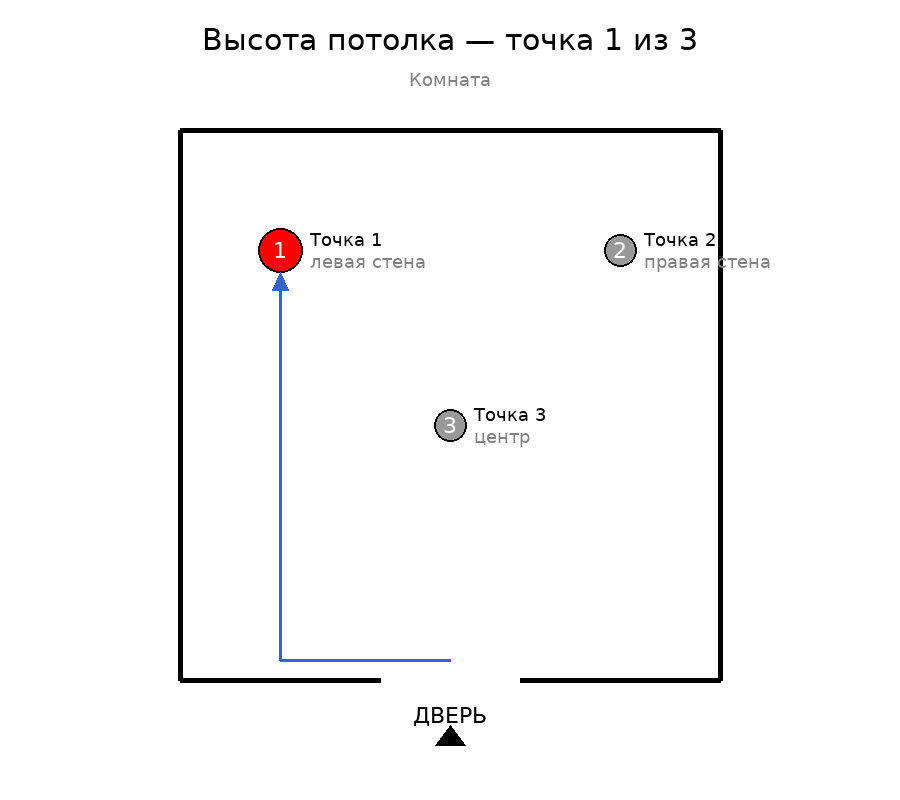
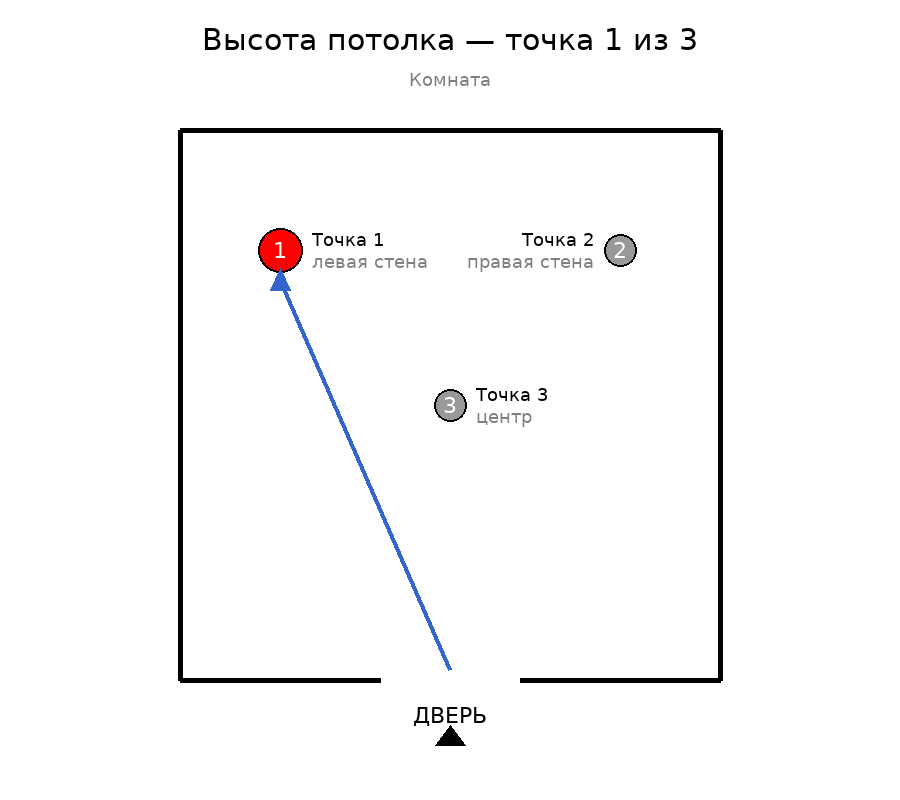
fix: схема — точка 2 подпись слева, стрелка прямая, центр ровно

diff --git a/scripts/draw_room_scheme.py b/scripts/draw_room_scheme.py
@@ -61,12 +61,12 @@ def draw_height_scheme(step=1, room_name="Комната"):
     points = {
         1: (x1 + 100, y1 + 120),           # у левой стены
         2: (x2 - 100, y1 + 120),           # у правой стены
-        3: ((x1 + x2)//2, (y1 + y2)//2 + 20),  # центр
+        3: ((x1 + x2)//2, (y1 + y2)//2),   # ровно центр
     }
     labels = {
-        1: ("Точка 1", "левая стена"),
-        2: ("Точка 2", "правая стена"),
-        3: ("Точка 3", "центр"),
+        1: ("Точка 1", "левая стена", "right"),
+        2: ("Точка 2", "правая стена", "left"),
+        3: ("Точка 3", "центр", "right"),
     }
 
     for num, (px, py) in points.items():
@@ -75,17 +75,26 @@ def draw_height_scheme(step=1, room_name="Комната"):
         d.ellipse([(px-r, py-r), (px+r, py+r)], fill=color, outline="black", width=2)
         # Номер внутри
         d.text((px, py), str(num), fill="white", font=font, anchor="mm")
-        # Подпись — справа от точки
-        lab_title, lab_sub = labels[num]
-        d.text((px + r + 8, py - 10), lab_title, fill="black", font=font_sm, anchor="lm")
-        d.text((px + r + 8, py + 12), lab_sub, fill="gray", font=font_sm, anchor="lm")
+        # Подпись — с нужной стороны
+        lab_title, lab_sub, side = labels[num]
+        if side == "right":
+            # Справа от точки
+            tx = px + r + 10
+            ax = "lm"
+        else:
+            # Слева от точки
+            tx = px - r - 10
+            ax = "rm"
+        d.text((tx, py - 10), lab_title, fill="black", font=font_sm, anchor=ax)
+        d.text((tx, py + 12), lab_sub, fill="gray", font=font_sm, anchor=ax)
 
-    # Стрелка обхода: от двери до точки 1 (простая прямая)
-    d.line([(mid, y2 - 20), (points[1][0], y2 - 20)], fill="#3366CC", width=3)
-    d.line([(points[1][0], y2 - 20), (points[1][0], points[1][1] + 30)], fill="#3366CC", width=3)
-    # Наконечник
+    # Стрелка обхода: от двери к точке 1 — прямая диагональ
     px1, py1 = points[1]
-    d.polygon([(px1-8, py1+40), (px1+8, py1+40), (px1, py1+22)], fill="#3366CC")
+    start = (mid, y2 - 10)
+    # Линия
+    d.line([start, (px1, py1 + 30)], fill="#3366CC", width=4)
+    # Наконечник (стрелка вверх к точке)
+    d.polygon([(px1-10, py1+40), (px1+10, py1+40), (px1, py1+18)], fill="#3366CC")
 
     # Сохраняем
     out_dir = os.path.join(os.path.dirname(os.path.dirname(__file__)), "docs", "images")
